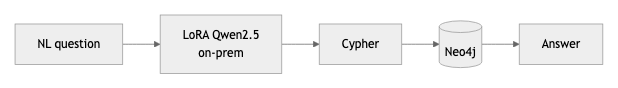
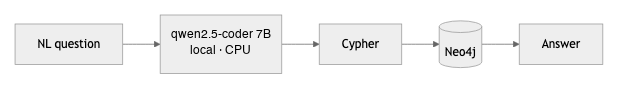
Correct two claims on the graph page: no LoRA tuning, verified forecasting numbers

Changed region(s): [[0.2767, 0.3182, 0.4612, 0.4545], [0.3074, 0.5, 0.4304, 0.6818]]

diff --git a/public/graph.html b/public/graph.html
@@ -362,9 +362,9 @@
           <div class="top"><h3>Local NL→Cypher</h3><span class="pill">Prototype</span></div>
           <p class="tag">On-prem · Fine-tuning</p>
           <p><b>Problem.</b> Analysts want to ask a graph questions in plain English, but the data is sensitive and can't be sent to a hosted model.</p>
-          <p><b>Graph decision.</b> An <b>ontology-grounded NL→Cypher</b> pipeline running fully offline (Neo4j + Ollama), with a <b>LoRA-fine-tuned Qwen2.5</b> for the translation, validated against a held-out query set.</p>
-          <ul class="stack"><li>NL2Cypher</li><li>ontology-grounded</li><li>LoRA (MLX)</li><li>Neo4j</li></ul>
-          <span class="case-fig"><img src="assets/proj-nl2cypher.png" alt="On-prem natural-language question through a LoRA-tuned Qwen2.5 to Cypher over Neo4j, returning an answer"/></span>
+          <p><b>Graph decision.</b> An <b>ontology-grounded NL→Cypher</b> pipeline running fully offline (Neo4j + Ollama) with <b>qwen2.5-coder 7B on CPU</b>, made reliable by non-model guardrails: few-shot retrieval, entity linking, schema pruning and a deterministic relationship-direction corrector.</p>
+          <ul class="stack"><li>NL2Cypher</li><li>ontology-grounded</li><li>local LLM</li><li>Neo4j</li></ul>
+          <span class="case-fig"><img src="assets/proj-nl2cypher.png" alt="On-prem natural-language question through qwen2.5-coder 7B on CPU to Cypher over Neo4j, returning an answer"/></span>
           <span class="link">Prototype · walkthrough on request</span>
         </article>
 
@@ -372,7 +372,7 @@
           <div class="top"><h3>Graph-augmented forecasting</h3><span class="pill">Prototype</span></div>
           <p class="tag">Retail · Graph ML</p>
           <p><b>Problem.</b> Store × SKU demand forecasts ignore how products and stores relate — cannibalization, substitution, and shared demand shocks.</p>
-          <p><b>Graph decision.</b> A <b>graph encoder</b> over cross-product / cross-store relationships feeds <b>node embeddings</b> into a global LightGBM across <b>4,000+ SKUs × 33 stores</b>. ML beats naive by ~23%, with an honest read on where the graph lift stays small.</p>
+          <p><b>Graph decision.</b> A <b>graph encoder</b> over cross-product / cross-store relationships feeds <b>node embeddings</b> into a global LightGBM across <b>4,000+ SKUs × 33 stores</b>. In a simulated rebuild LightGBM cuts WMAPE from 0.227 to 0.184 vs seasonal-naive; graph features add only +0.4% overall and +2.1% on brand-new items.</p>
           <ul class="stack"><li>graph encoder</li><li>node embeddings</li><li>LightGBM</li><li>spatiotemporal</li></ul>
           <span class="case-fig"><img src="assets/proj-forecasting.png" alt="Product and store graph through a graph encoder to node embeddings, combined with tabular features into LightGBM forecasts"/></span>
           <span class="link">Prototype · walkthrough on request</span>
